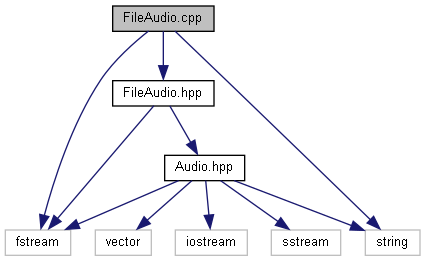
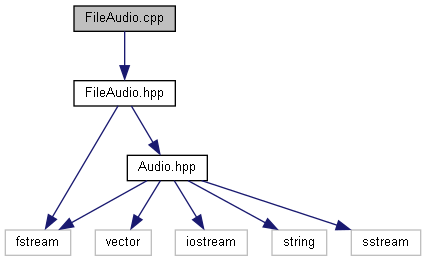
Cleaned some more comments

diff --git a/documentation/html/_file_audio_8hpp_source.html b/documentation/html/_file_audio_8hpp_source.html
@@ -148,18 +148,18 @@ $(document).ready(function(){initNavTree('_file_audio_8hpp_source.html',''); ini
 <div class="ttc" id="aclass_audio_creator_html"><div class="ttname"><a href="class_audio_creator.html">AudioCreator</a></div><div class="ttdoc">Abstract base class for creating Audio objects.</div><div class="ttdef"><b>Definition:</b> Audio.hpp:145</div></div>
 <div class="ttc" id="aclass_audio_html"><div class="ttname"><a href="class_audio.html">Audio</a></div><div class="ttdoc">Abstract base class for Audio objects.</div><div class="ttdef"><b>Definition:</b> Audio.hpp:24</div></div>
 <div class="ttc" id="aclass_file_audio_creator_html"><div class="ttname"><a href="class_file_audio_creator.html">FileAudioCreator</a></div><div class="ttdoc">Creator class for FileAudio objects.</div><div class="ttdef"><b>Definition:</b> FileAudio.hpp:133</div></div>
-<div class="ttc" id="aclass_file_audio_creator_html_a0e5eb65a08b971058cf86cf272dd322d"><div class="ttname"><a href="class_file_audio_creator.html#a0e5eb65a08b971058cf86cf272dd322d">FileAudioCreator::createAudio</a></div><div class="ttdeci">Audio * createAudio(std::istream &amp;in) const override</div><div class="ttdoc">Creates a FileAudio object from an input stream.</div><div class="ttdef"><b>Definition:</b> FileAudio.cpp:382</div></div>
-<div class="ttc" id="aclass_file_audio_creator_html_ab926eeb185327bec5aeee8b5dade3e25"><div class="ttname"><a href="class_file_audio_creator.html#ab926eeb185327bec5aeee8b5dade3e25">FileAudioCreator::FileAudioCreator</a></div><div class="ttdeci">FileAudioCreator()</div><div class="ttdoc">Constructs a FileAudioCreator.</div><div class="ttdef"><b>Definition:</b> FileAudio.cpp:378</div></div>
+<div class="ttc" id="aclass_file_audio_creator_html_a0e5eb65a08b971058cf86cf272dd322d"><div class="ttname"><a href="class_file_audio_creator.html#a0e5eb65a08b971058cf86cf272dd322d">FileAudioCreator::createAudio</a></div><div class="ttdeci">Audio * createAudio(std::istream &amp;in) const override</div><div class="ttdoc">Creates a FileAudio object from an input stream.</div><div class="ttdef"><b>Definition:</b> FileAudio.cpp:384</div></div>
+<div class="ttc" id="aclass_file_audio_creator_html_ab926eeb185327bec5aeee8b5dade3e25"><div class="ttname"><a href="class_file_audio_creator.html#ab926eeb185327bec5aeee8b5dade3e25">FileAudioCreator::FileAudioCreator</a></div><div class="ttdeci">FileAudioCreator()</div><div class="ttdoc">Constructs a FileAudioCreator.</div><div class="ttdef"><b>Definition:</b> FileAudio.cpp:380</div></div>
 <div class="ttc" id="aclass_file_audio_html"><div class="ttname"><a href="class_file_audio.html">FileAudio</a></div><div class="ttdoc">Represents an audio object whose data is primarily sourced from or destined for a file.</div><div class="ttdef"><b>Definition:</b> FileAudio.hpp:17</div></div>
-<div class="ttc" id="aclass_file_audio_html_a0a417a2ba0a816a11acc5999c8e8cee3"><div class="ttname"><a href="class_file_audio.html#a0a417a2ba0a816a11acc5999c8e8cee3">FileAudio::printToStream</a></div><div class="ttdeci">std::ostream &amp; printToStream(std::ostream &amp;out) const override</div><div class="ttdoc">Prints the audio data to an output stream.</div><div class="ttdef"><b>Definition:</b> FileAudio.cpp:106</div></div>
-<div class="ttc" id="aclass_file_audio_html_a5ca719f3e1f359bd60ec128ac6331a34"><div class="ttname"><a href="class_file_audio.html#a5ca719f3e1f359bd60ec128ac6331a34">FileAudio::print</a></div><div class="ttdeci">void print() const override</div><div class="ttdoc">Prints information about the audio object to the standard output.</div><div class="ttdef"><b>Definition:</b> FileAudio.cpp:115</div></div>
-<div class="ttc" id="aclass_file_audio_html_a5ccc56b381e4ef4bf6dd687028f43a99"><div class="ttname"><a href="class_file_audio.html#a5ccc56b381e4ef4bf6dd687028f43a99">FileAudio::readTXT</a></div><div class="ttdeci">void readTXT(const char *fileName)</div><div class="ttdoc">Reads audio data from a text file.</div><div class="ttdef"><b>Definition:</b> FileAudio.cpp:120</div></div>
-<div class="ttc" id="aclass_file_audio_html_a7602ae17852d4ebd3b8a4bcb4a4c7d60"><div class="ttname"><a href="class_file_audio.html#a7602ae17852d4ebd3b8a4bcb4a4c7d60">FileAudio::clone</a></div><div class="ttdeci">FileAudio * clone() const override</div><div class="ttdoc">Clones the FileAudio object.</div><div class="ttdef"><b>Definition:</b> FileAudio.cpp:102</div></div>
-<div class="ttc" id="aclass_file_audio_html_a7d15a5ec2d8410a3cb4ef6cfc3164ae2"><div class="ttname"><a href="class_file_audio.html#a7d15a5ec2d8410a3cb4ef6cfc3164ae2">FileAudio::operator[]</a></div><div class="ttdeci">double operator[](size_t index) const override</div><div class="ttdoc">Accesses a sample at the given index (const version).</div><div class="ttdef"><b>Definition:</b> FileAudio.cpp:88</div></div>
-<div class="ttc" id="aclass_file_audio_html_a8b4fb932b06347cf398fc428eaa14dd1"><div class="ttname"><a href="class_file_audio.html#a8b4fb932b06347cf398fc428eaa14dd1">FileAudio::writeWAV</a></div><div class="ttdeci">void writeWAV(const char *fileName) const</div><div class="ttdoc">Writes the audio data to a WAV file.</div><div class="ttdef"><b>Definition:</b> FileAudio.cpp:285</div></div>
-<div class="ttc" id="aclass_file_audio_html_aaa2ce4b30597670e249ba3f2cbf015dc"><div class="ttname"><a href="class_file_audio.html#aaa2ce4b30597670e249ba3f2cbf015dc">FileAudio::FileAudio</a></div><div class="ttdeci">FileAudio()</div><div class="ttdoc">Default constructor.</div><div class="ttdef"><b>Definition:</b> FileAudio.cpp:19</div></div>
-<div class="ttc" id="aclass_file_audio_html_aeda790a1d67ad88d36b92d53cd00e255"><div class="ttname"><a href="class_file_audio.html#aeda790a1d67ad88d36b92d53cd00e255">FileAudio::readWAV</a></div><div class="ttdeci">void readWAV(const char *fileName)</div><div class="ttdoc">Reads audio data from a WAV file.</div><div class="ttdef"><b>Definition:</b> FileAudio.cpp:176</div></div>
-<div class="ttc" id="aclass_file_audio_html_afc1e40b10393fe5b5c3c9ffb0a8efa86"><div class="ttname"><a href="class_file_audio.html#afc1e40b10393fe5b5c3c9ffb0a8efa86">FileAudio::writeTXT</a></div><div class="ttdeci">void writeTXT(const char *fileName) const</div><div class="ttdoc">Writes the audio data to a text file.</div><div class="ttdef"><b>Definition:</b> FileAudio.cpp:61</div></div>
+<div class="ttc" id="aclass_file_audio_html_a0a417a2ba0a816a11acc5999c8e8cee3"><div class="ttname"><a href="class_file_audio.html#a0a417a2ba0a816a11acc5999c8e8cee3">FileAudio::printToStream</a></div><div class="ttdeci">std::ostream &amp; printToStream(std::ostream &amp;out) const override</div><div class="ttdoc">Prints the audio data to an output stream.</div><div class="ttdef"><b>Definition:</b> FileAudio.cpp:108</div></div>
+<div class="ttc" id="aclass_file_audio_html_a5ca719f3e1f359bd60ec128ac6331a34"><div class="ttname"><a href="class_file_audio.html#a5ca719f3e1f359bd60ec128ac6331a34">FileAudio::print</a></div><div class="ttdeci">void print() const override</div><div class="ttdoc">Prints information about the audio object to the standard output.</div><div class="ttdef"><b>Definition:</b> FileAudio.cpp:117</div></div>
+<div class="ttc" id="aclass_file_audio_html_a5ccc56b381e4ef4bf6dd687028f43a99"><div class="ttname"><a href="class_file_audio.html#a5ccc56b381e4ef4bf6dd687028f43a99">FileAudio::readTXT</a></div><div class="ttdeci">void readTXT(const char *fileName)</div><div class="ttdoc">Reads audio data from a text file.</div><div class="ttdef"><b>Definition:</b> FileAudio.cpp:122</div></div>
+<div class="ttc" id="aclass_file_audio_html_a7602ae17852d4ebd3b8a4bcb4a4c7d60"><div class="ttname"><a href="class_file_audio.html#a7602ae17852d4ebd3b8a4bcb4a4c7d60">FileAudio::clone</a></div><div class="ttdeci">FileAudio * clone() const override</div><div class="ttdoc">Clones the FileAudio object.</div><div class="ttdef"><b>Definition:</b> FileAudio.cpp:104</div></div>
+<div class="ttc" id="aclass_file_audio_html_a7d15a5ec2d8410a3cb4ef6cfc3164ae2"><div class="ttname"><a href="class_file_audio.html#a7d15a5ec2d8410a3cb4ef6cfc3164ae2">FileAudio::operator[]</a></div><div class="ttdeci">double operator[](size_t index) const override</div><div class="ttdoc">Accesses a sample at the given index (const version).</div><div class="ttdef"><b>Definition:</b> FileAudio.cpp:90</div></div>
+<div class="ttc" id="aclass_file_audio_html_a8b4fb932b06347cf398fc428eaa14dd1"><div class="ttname"><a href="class_file_audio.html#a8b4fb932b06347cf398fc428eaa14dd1">FileAudio::writeWAV</a></div><div class="ttdeci">void writeWAV(const char *fileName) const</div><div class="ttdoc">Writes the audio data to a WAV file.</div><div class="ttdef"><b>Definition:</b> FileAudio.cpp:287</div></div>
+<div class="ttc" id="aclass_file_audio_html_aaa2ce4b30597670e249ba3f2cbf015dc"><div class="ttname"><a href="class_file_audio.html#aaa2ce4b30597670e249ba3f2cbf015dc">FileAudio::FileAudio</a></div><div class="ttdeci">FileAudio()</div><div class="ttdoc">Default constructor.</div><div class="ttdef"><b>Definition:</b> FileAudio.cpp:21</div></div>
+<div class="ttc" id="aclass_file_audio_html_aeda790a1d67ad88d36b92d53cd00e255"><div class="ttname"><a href="class_file_audio.html#aeda790a1d67ad88d36b92d53cd00e255">FileAudio::readWAV</a></div><div class="ttdeci">void readWAV(const char *fileName)</div><div class="ttdoc">Reads audio data from a WAV file.</div><div class="ttdef"><b>Definition:</b> FileAudio.cpp:178</div></div>
+<div class="ttc" id="aclass_file_audio_html_afc1e40b10393fe5b5c3c9ffb0a8efa86"><div class="ttname"><a href="class_file_audio.html#afc1e40b10393fe5b5c3c9ffb0a8efa86">FileAudio::writeTXT</a></div><div class="ttdeci">void writeTXT(const char *fileName) const</div><div class="ttdoc">Writes the audio data to a text file.</div><div class="ttdef"><b>Definition:</b> FileAudio.cpp:63</div></div>
 </div><!-- fragment --></div><!-- contents -->
 </div><!-- doc-content -->
 <!-- start footer part -->

diff --git a/documentation/html/_file_audio_8cpp.html b/documentation/html/_file_audio_8cpp.html
@@ -96,21 +96,19 @@ $(document).ready(function(){initNavTree('_file_audio_8cpp.html',''); initResiza
 </div><!--header-->
 <div class="contents">
 <div class="textblock"><code>#include &quot;<a class="el" href="_file_audio_8hpp_source.html">FileAudio.hpp</a>&quot;</code><br />
-<code>#include &lt;fstream&gt;</code><br />
-<code>#include &lt;string&gt;</code><br />
 </div><div class="textblock"><div class="dynheader">
 Include dependency graph for FileAudio.cpp:</div>
 <div class="dyncontent">
 <div class="center"><img src="_file_audio_8cpp__incl.png" border="0" usemap="#a_file_audio_8cpp" alt=""/></div>
 <map name="a_file_audio_8cpp" id="a_file_audio_8cpp">
-<area shape="rect" title=" " coords="113,5,214,32"/>
-<area shape="rect" href="_file_audio_8hpp.html" title="Defines the FileAudio class for handling audio data from files and its creator." coords="113,80,214,107"/>
+<area shape="rect" title=" " coords="74,5,175,32"/>
+<area shape="rect" href="_file_audio_8hpp.html" title="Defines the FileAudio class for handling audio data from files and its creator." coords="74,80,175,107"/>
+<area shape="rect" href="_audio_8hpp.html" title="Defines the Audio and AudioCreator classes for audio processing." coords="127,155,207,181"/>
 <area shape="rect" title=" " coords="5,229,71,256"/>
-<area shape="rect" title=" " coords="365,229,420,256"/>
-<area shape="rect" href="_audio_8hpp.html" title="Defines the Audio and AudioCreator classes for audio processing." coords="165,155,245,181"/>
 <area shape="rect" title=" " coords="95,229,151,256"/>
 <area shape="rect" title=" " coords="175,229,247,256"/>
-<area shape="rect" title=" " coords="271,229,341,256"/>
+<area shape="rect" title=" " coords="272,229,327,256"/>
+<area shape="rect" title=" " coords="351,229,421,256"/>
 </map>
 </div>
 </div></div><!-- contents -->

diff --git a/FileAudio.cpp b/FileAudio.cpp
@@ -1,6 +1,8 @@
 #include "FileAudio.hpp"
-#include <fstream>     // For std::ifstream, std::ofstream
-#include <string>      // For std::string
+//#include <fstream>     // For std::ifstream, std::ofstream
+//#include <string>      // For std::string
+
+//Helped figuring out the WAV format: https://www.youtube.com/watch?v=rHqkeLxAsTc
 
 // Helper function to get file extension
 static std::string getFileExtension(const std::string& filePath) {
@@ -71,7 +73,7 @@ void FileAudio::writeTXT(const char *fileName) const {
         for (size_t i = 0; i < this->getSampleSize(); ++i) {
             file << this->samples[i] << (i == this->getSampleSize() - 1 ? "" : " ");
         }
-        file << "\n"; // Add a final newline for clarity
+        file << "\n";
 
         file.close();
     } catch (const std::exception& ex) {
@@ -105,8 +107,8 @@ FileAudio *FileAudio::clone() const {
 
 std::ostream &FileAudio::printToStream(std::ostream &out) const {
     out << this->getDuration() << '\t' << this->getSampleRate() << '\t' << this->getSampleSize() << '\t';
-    for (size_t i = 0; i < this->getSampleSize(); ++i) { // Use size_t for loop
-        out << this->samples[i] << (i == this->getSampleSize() - 1 ? "" : " "); // Use this->getSampleSize()
+    for (size_t i = 0; i < this->getSampleSize(); ++i) {
+        out << this->samples[i] << (i == this->getSampleSize() - 1 ? "" : " ");
     }
     out << std::endl;
     return out;

diff --git a/main.cpp b/main.cpp
@@ -7,13 +7,13 @@
 int main() {
     try {
         // Create a dummy PESEN.txt, as in the original main
-        std::ofstream oFile("PESEN.txt");
-        if (oFile.is_open()) {
-            oFile << "30 " << "4 " << "5 " << 10 << " " << 10 << " " << 10 << " " << 10 << " " << 10;
-            oFile.close();
-        } else {
-            std::cerr << "Failed to open PESEN.txt for writing." << std::endl;
-        }
+//        std::ofstream oFile("PESEN.txt");
+//        if (oFile.is_open()) {
+//            oFile << "30 " << "4 " << "5 " << 10 << " " << 10 << " " << 10 << " " << 10 << " " << 10;
+//            oFile.close();
+//        } else {
+//            std::cerr << "Failed to open PESEN.txt for writing." << std::endl;
+//        }
 
         // Demonstrate Silence module
         std::cout << "Demonstrating Silence object:" << std::endl;

diff --git a/Effect.cpp b/Effect.cpp
@@ -74,13 +74,13 @@ Audio* EffectCreator::createAudio(std::istream& in) const {
             // when their operation structs and Effect specializations (if needed) are defined.
         else {
             // Consume the rest of the line for an unknown effect type to avoid parsing errors later.
-            in.clear(); // Clear error flags in case effectType was valid but unrecognised, then ignore.
+            in.clear();
             in.ignore(std::numeric_limits<std::streamsize>::max(), '\n');
             throw std::runtime_error("EffectCreator: Unknown effect type: " + effectType);
         }
     } catch (...) {
-        delete baseAudio; // IMPORTANT: Clean up baseAudio if it was allocated but not successfully passed to an Effect object.
-        throw; // Re-throw the exception.
+        delete baseAudio;
+        throw;
     }
 }
 

diff --git a/Track.hpp b/Track.hpp
@@ -13,7 +13,6 @@
  *
  * A track consists of a sequence of `Audio` objects (clips or segments).
  * It might also have track-specific properties like volume, pan, effects, etc.
- * (though not all are explicitly defined in this version).
  *
  * @note TODO: Consider whether `Track` itself should also inherit from `Audio`.
  *       This would allow tracks to be treated as composite audio objects,
